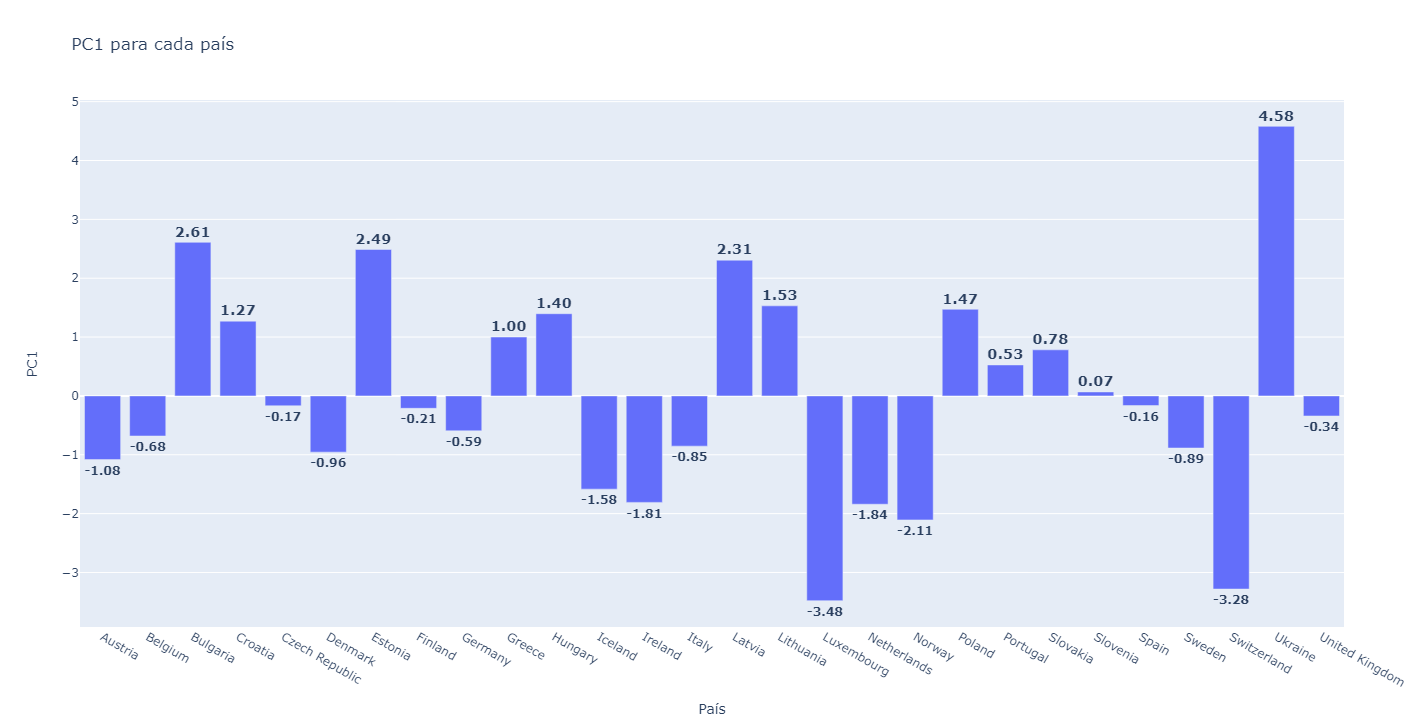
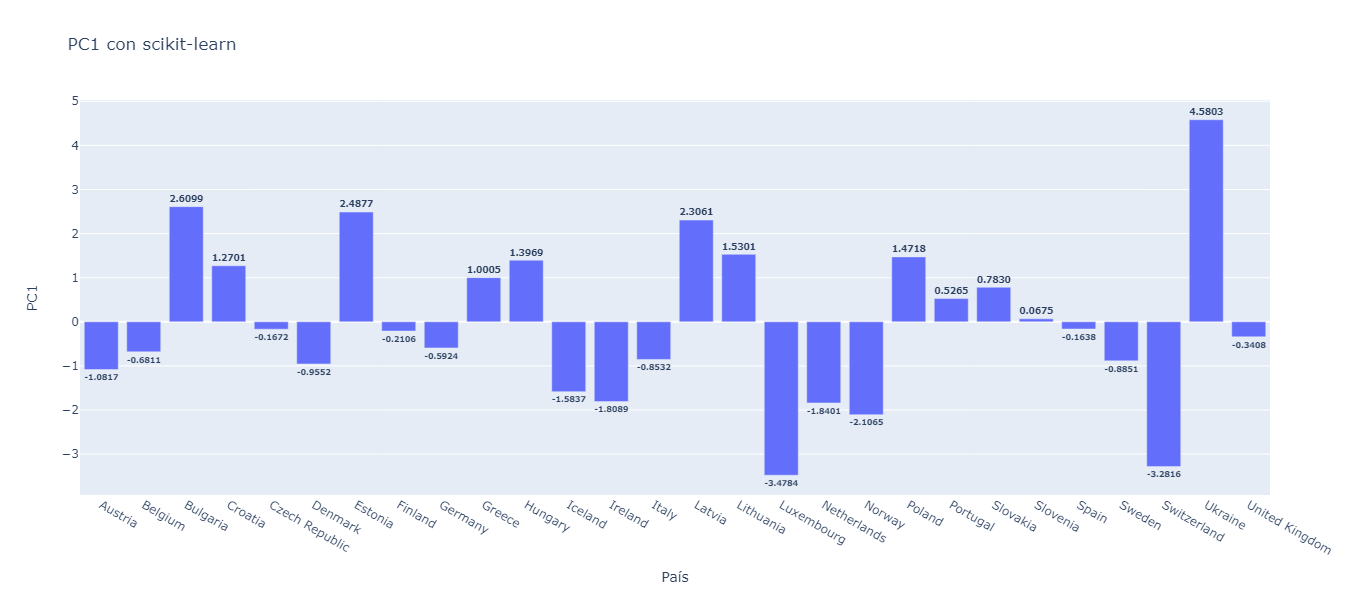
Update plots

diff --git a/TP4/src/oja/pca_vs_oja/barplot.py b/TP4/src/oja/pca_vs_oja/barplot.py
@@ -19,8 +19,8 @@ def main():
     # Reformatea los datos utilizando melt para tener cada dato del encabezado en el eje X
     melted_data = df_combined.melt(id_vars=['Eta'], var_name='País', value_name='Valor')
     fig = px.bar(melted_data, x='País', y='Valor', color='Eta', labels={'Valor': 'PC1'}, barmode='group')
-    fig.update_layout(title='PC1 con regla de Oja')
-    fig.update_traces(texttemplate='%{text:.4f}', textposition='outside', text=melted_data['Valor'])
+    fig.update_layout(title='PC1 para cada pais agrupado por eta')
+    fig.update_traces(texttemplate='<b>%{text:.4f}</b>', textposition='outside')
     fig.show()
 
 

diff --git a/TP4/src/PCA/main.py b/TP4/src/PCA/main.py
@@ -22,8 +22,8 @@ def component_graph(countries, pc1):
     fig = go.Figure(go.Bar(x=countries, y=pc1))
     fig.update_layout(xaxis_title="País",
                       yaxis_title="PC1",
-                      title="PC1 para cada país")
-    fig.update_traces(textfont_size=16, textposition='outside', text=pc1, texttemplate='<b>%{text:.2f}</b>')
+                      title="PC1 con scikit-learn")
+    fig.update_traces(textfont_size=16, textposition='outside', text=pc1, texttemplate='<b>%{text:.4f}</b>')
     fig.show()
 
 
